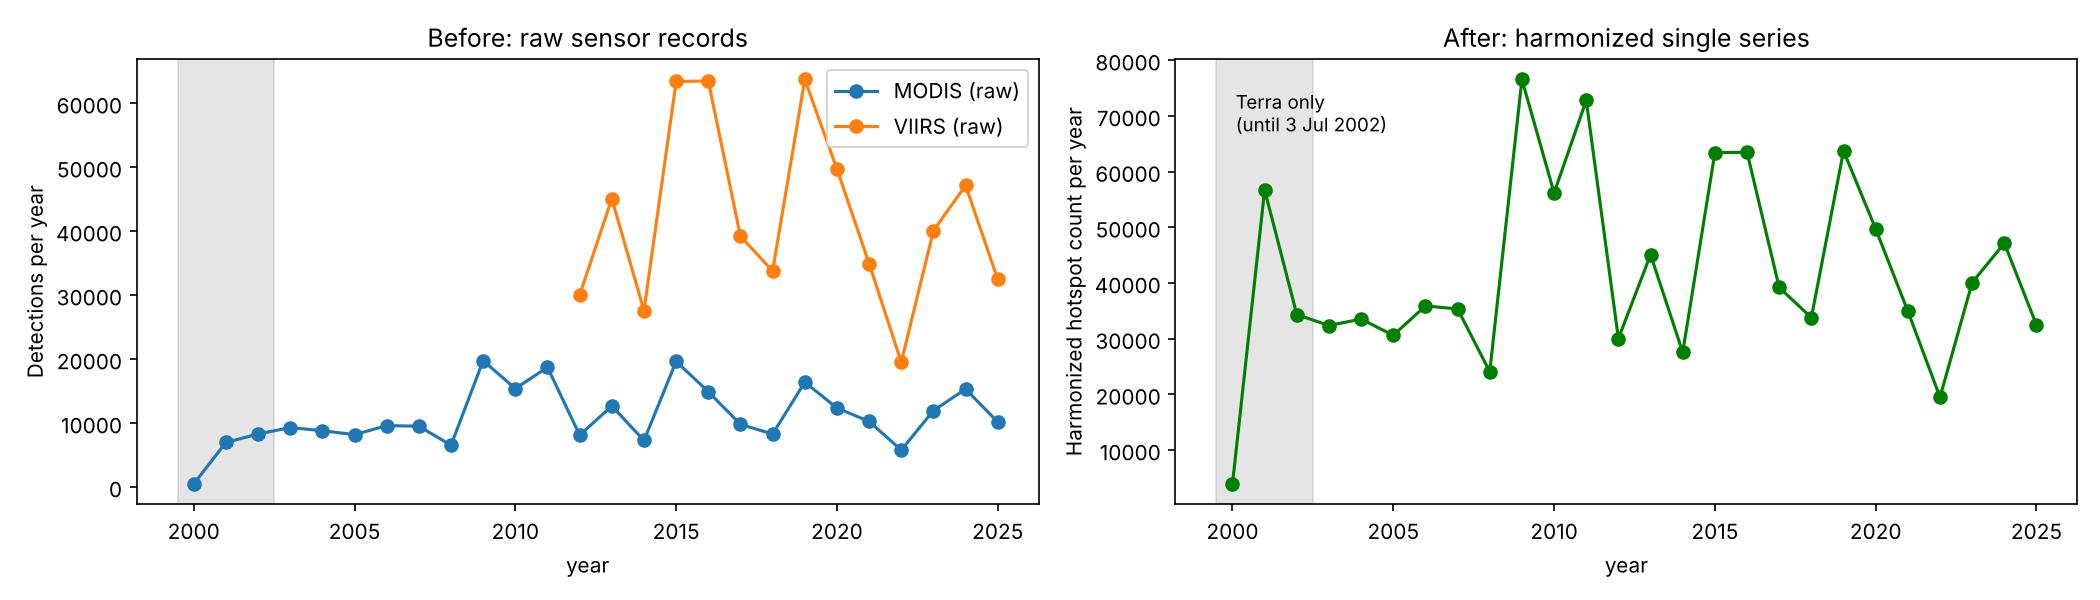
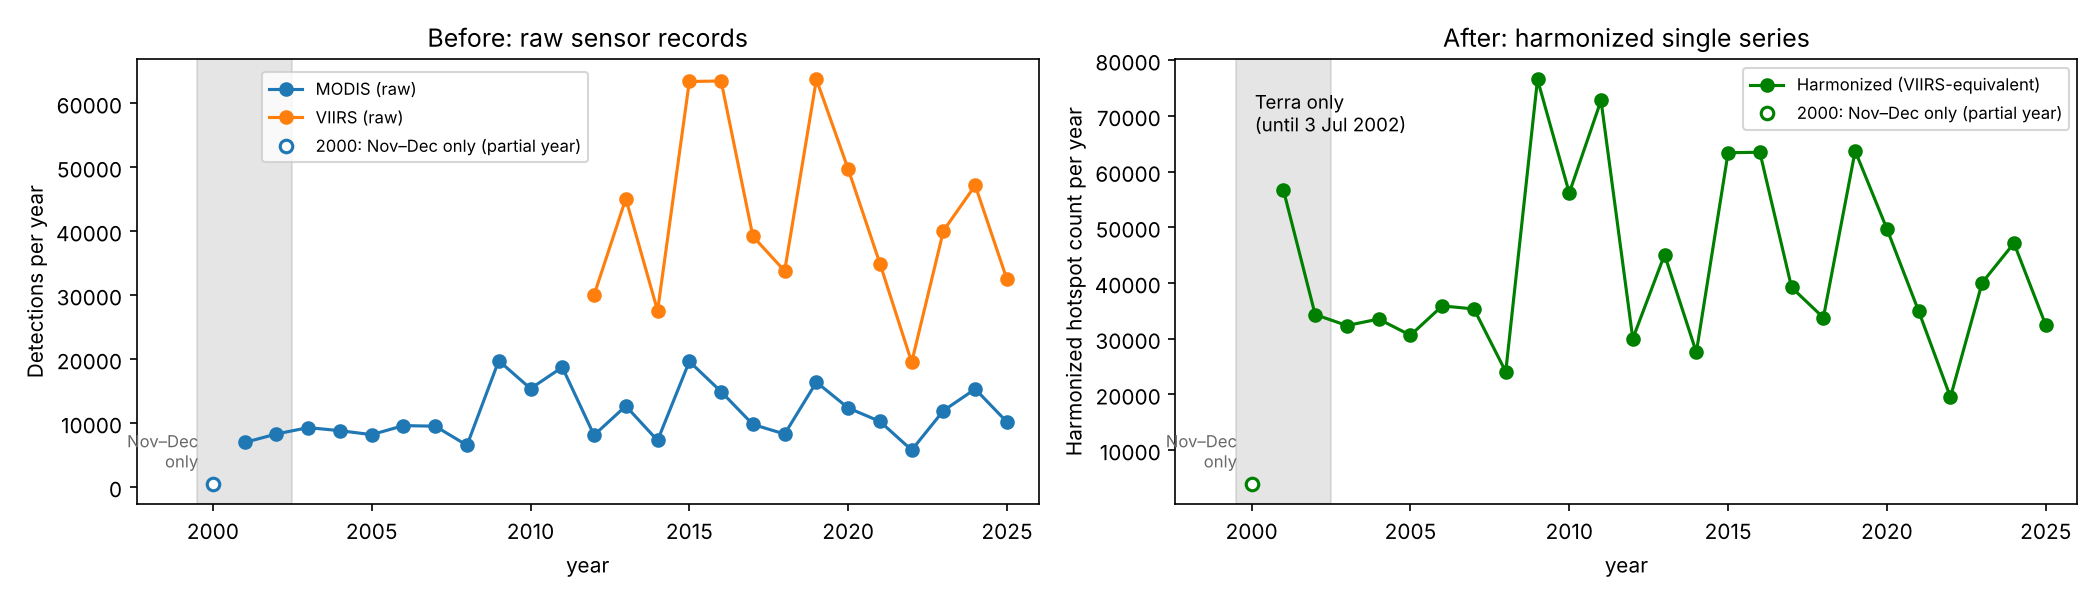
Mark 2000 as a partial year (Nov-Dec only) in the yearly charts
- fig1: 2000 drawn as a hollow marker labelled 'Nov-Dec only', not
  joined to 2001; legends moved off the data (re-drawn with
  tools/make_figures.py)
- app yearly chart: 2000 as an outlined bar with a 'Nov-Dec only'
  label and hover note; error bars only on MODIS-scaled years

diff --git a/index.html b/index.html
@@ -520,6 +520,7 @@ se_h:['How the error depends on area and time','Hatanın alana ve zamana bağlı
 se_c:['Forward test ① (factors learned on 2012–2018, scored on 2019–2025), WAPE of the scaled MODIS against real VIIRS for units of each size and each time window. The error falls steadily as the area or the window grows — the signature of random, not systematic, error: <b>{v0}</b> of all VIIRS detections fall in 0.25° cell-days in which MODIS detected nothing (small, short or cloud-hidden fires), so whether MODIS caught a fire is close to chance for one small area and averages out only over many fires. No scaling method can recover fires MODIS never saw; the calendar therefore shows this table\'s error for <i>your</i> area and view (hover a ◇ year), and the yearly chart draws it as error bars. Read from <code>data/scale_error_v2.csv</code> (<code>tools/scale_error_check.py</code>).','İleriye test ① (faktörler 2012–2018\'den öğrenildi, 2019–2025\'te puanlandı): her büyüklükteki birim ve her zaman penceresi için ölçeklenmiş MODIS\'in gerçek VIIRS\'e göre WAPE\'si. Alan veya pencere büyüdükçe hata düzenli olarak düşer — bu sistematik değil rastlantısal hatanın işaretidir: tüm VIIRS tespitlerinin <b>{v0}</b>\'i MODIS\'in hiçbir şey görmediği 0,25° hücre-günlerdedir (küçük, kısa süreli veya bulut altında kalan yangınlar). Bu yüzden MODIS\'in bir yangını yakalaması küçük bir alanda neredeyse tesadüftür ve ancak çok sayıda yangında dengelenir. Hiçbir ölçekleme yöntemi MODIS\'in hiç görmediği yangınları geri getiremez; bu nedenle takvim bu tablodaki hatayı <i>sizin</i> alanınız ve görünümünüz için gösterir (◇ yılın üzerine gelin), yıllık grafik de bunu hata çubuğu olarak çizer. <code>data/scale_error_v2.csv</code> dosyasından okunur (<code>tools/scale_error_check.py</code>).'],
 se_s:['Unit','Birim'],se_cell:['0.25° cell','0,25° hücre'],se_square_1:['1° square','1° kare'],se_square_2:['2° square','2° kare'],se_region:['Whole region','Tüm bölge'],
 yerr:['typical error','tipik hata'],
+p2000:['Nov–Dec only (the record starts on 1 Nov 2000)','yalnızca Kas–Ara (kayıt 1 Kasım 2000\'de başlar)'],p2000s:['Nov–Dec<br>only','yalnızca<br>Kas–Ara'],
 demo:['▶ Demo','▶ Demo'],t_close:['Close','Kapat'],t_back:['Back','Geri'],t_next:['Next','İleri'],t_done:['Finish','Bitir'],
 tour1:['1/4 · The problem','1/4 · Sorun','MODIS (1 km pixels, since 2000) sees about <b>3.6× fewer</b> fires than VIIRS (375 m, since 2012). MODIS is reaching the end of its mission; without a bridge, the 2000–2011 record cannot be compared with today. The table shows how well our MODIS→VIIRS scaling predicts VIIRS in years it never saw.','MODIS (1 km piksel, 2000\'den beri) VIIRS\'e (375 m, 2012\'den beri) göre yaklaşık <b>3,6 kat daha az</b> yangın görür. MODIS görev ömrünün sonuna geliyor; bir köprü olmazsa 2000–2011 kaydı bugünle karşılaştırılamaz. Tablo, MODIS→VIIRS ölçeklememizin hiç görmediği yıllarda VIIRS\'i ne kadar iyi tahmin ettiğini gösterir.'],
 tour2:['2/4 · Pick an area and a week','2/4 · Alan ve hafta seç','Case study: the <b>July–August 2021 megafires</b> (Manavgat, Marmaris, Milas). The calendar row 2021 lights up in weeks 30–31; the map shows only that week\'s hotspots over NASA\'s true-colour MODIS image of the same week.','Vaka analizi: <b>Temmuz–Ağustos 2021 megayangınları</b> (Manavgat, Marmaris, Milas). Takvimde 2021 satırı 30–31. haftalarda parlıyor; harita yalnızca o haftanın sıcak noktalarını aynı haftanın NASA gerçek renkli MODIS görüntüsü üzerinde gösterir.'],
@@ -880,10 +881,12 @@ function refresh(){
  const mt=med(yr.map((y,i)=>y>=2003?tot[i]:null).filter(x=>x!=null));
  // trend of yearly totals: Theil-Sen slope + Mann-Kendall test, two-satellite years only (2003+; 2012+ for raw VIIRS)
  const tY=[],tV=[];yr.forEach((y,i)=>{if(y>=(SENS=='raw_viirs'?2012:2003)){tY.push(y);tV.push(tot[i])}});const TR=trend(tY,tV);
- const eyr=SENS=='intensity'?expErr(curKm2(),'year'):null,ebar=yr.map((y,i)=>eyr!=null&&y<2012?tot[i]*eyr/100:0);
- const ch2d=[{x:yr,y:tot,type:'bar',name:l('Hotspots','Sıcak nokta'),marker:{color:yr.map(y=>y<2003?'#64748b':y<2012&&SENS=='intensity'?'#a78bfa':'#2dd4bf')},error_y:{type:'data',array:ebar,visible:eyr!=null,color:'#e6ddd3',thickness:1.2,width:3},customdata:ebar,hovertemplate:eyr!=null?`%{x}: %{y:,.0f}<br>± %{customdata:,.0f} (${t('yerr')} ~${Math.round(eyr)}% ◇)<extra></extra>`:'%{x}: %{y:,.0f}<extra></extra>'},{x:yr,y:yr.map(()=>mt),mode:'lines',name:l('median','medyan'),line:{color:'#fbbf24',dash:'dash'}}];
+ const eyr=SENS=='intensity'?expErr(curKm2(),'year'):null,ebar=yr.map((y,i)=>eyr!=null&&y<2012&&y>2000?tot[i]*eyr/100:null);
+ const ch2d=[{x:yr,y:tot,type:'bar',showlegend:false,name:l('Hotspots','Sıcak nokta'),marker:{color:yr.map(y=>y==2000?'rgba(0,0,0,0)':y<2003?'#64748b':y<2012&&SENS=='intensity'?'#a78bfa':'#2dd4bf'),line:{color:yr.map(y=>y==2000?'#9ca3af':'rgba(0,0,0,0)'),width:yr.map(y=>y==2000?1.5:0)}},customdata:ebar,hovertext:yr.map(y=>y==2000?' · '+t('p2000'):''),hovertemplate:yr.map((y,i)=>ebar[i]!=null?`%{x}: %{y:,.0f}<br>± %{customdata:,.0f} (${t('yerr')} ~${Math.round(eyr)}% ◇)<extra></extra>`:'%{x}: %{y:,.0f}%{hovertext}<extra></extra>')},{x:yr,y:yr.map(()=>mt),mode:'lines',name:l('median','medyan'),line:{color:'#fbbf24',dash:'dash'}}];
+ {const ex=[],ey=[],ee=[];yr.forEach((y,i)=>{if(ebar[i]!=null){ex.push(y);ey.push(tot[i]);ee.push(ebar[i])}});if(ex.length)ch2d.push({x:ex,y:ey,type:'scatter',mode:'markers',marker:{opacity:0,size:1},error_y:{type:'data',array:ee,color:'#e6ddd3',thickness:1.2,width:3},showlegend:false,hoverinfo:'skip'})}
  if(TR)ch2d.push({x:[tY[0],tY[tY.length-1]],y:[TR.b+TR.s*tY[0],TR.b+TR.s*tY[tY.length-1]],mode:'lines',name:'Theil–Sen',line:{color:'#f3ece4',width:2,dash:'dot'}});
- Plotly.react('ch2',ch2d,{...lay,title:{text:l('Yearly totals (purple = MODIS-scaled)','Yıllık toplam (mor = MODIS\'ten ölçekli)'),font:{size:12}}},cf);
+ const ann2=yr[0]==2000?[{x:2000,y:tot[0],yref:'y',text:t('p2000s'),showarrow:false,yanchor:'bottom',yshift:3,font:{size:9,color:'#b3a99e'}}]:[];
+ Plotly.react('ch2',ch2d,{...lay,annotations:ann2,title:{text:l('Yearly totals (purple = MODIS-scaled)','Yıllık toplam (mor = MODIS\'ten ölçekli)'),font:{size:12}}},cf);
  if(TR){const pc=mt>0?100*TR.s/mt:0,sig=TR.p<.05;
   $('k6').textContent=`${TR.s>=0?'+':'−'}${fmt(Math.abs(TR.s))} ${l('hotspots / year','sıcak nokta / yıl')} (${pf(pc,1)} ${l('of the median per year','/ yıl, medyana göre')})`;
   $('k6s').textContent=`${tY[0]}–${tY[tY.length-1]}, n=${TR.n} · Mann–Kendall p = ${TR.p<.001?'<0.001':TR.p.toFixed(3)} → ${sig?(TR.s>0?l('significant increase','anlamlı artış'):l('significant decrease','anlamlı azalış')):l('no significant trend','anlamlı trend yok')} (α = 0.05). ${l('Year-to-year variability is large; the trend is a summary, not a forecast.','Yıldan yıla değişkenlik büyüktür; trend bir özettir, tahmin değildir.')}`}

diff --git a/tools/make_figures.py b/tools/make_figures.py
@@ -40,16 +40,28 @@ def load(path):
 def fig1(g, out):
     y = g.groupby("year")[["raw_modis", "raw_viirs", "intensity"]].sum()
     v = y["raw_viirs"][y["raw_viirs"] > 0]
+    # 2000 holds only November and December (the MODIS record starts on 1 Nov 2000), so it is drawn as a
+    # hollow marker, labelled, and not joined to 2001: a line would suggest a collapse in fire activity.
+    full = y.index >= 2001
     fig, ax = plt.subplots(1, 2, figsize=(14, 4), dpi=150)
-    ax[0].plot(y.index, y["raw_modis"], "o-", color=BLUE, label="MODIS (raw)")
+    ax[0].plot(y.index[full], y["raw_modis"][full], "o-", color=BLUE, label="MODIS (raw)")
     ax[0].plot(v.index, v, "o-", color=ORANGE, label="VIIRS (raw)")
     ax[0].set(title="Before: raw sensor records", xlabel="year", ylabel="Detections per year")
-    ax[0].legend()
-    ax[1].plot(y.index, y["intensity"], "o-", color=GREEN)
+    ax[1].plot(y.index[full], y["intensity"][full], "o-", color=GREEN, label="Harmonized (VIIRS-equivalent)")
     ax[1].set(title="After: harmonized single series", xlabel="year",
               ylabel="Harmonized hotspot count per year")
-    for a in ax:
+    for a, col, colour in ((ax[0], "raw_modis", BLUE), (ax[1], "intensity", GREEN)):
+        if 2000 in y.index:
+            a.plot([2000], [y.loc[2000, col]], "o", mfc="white", mec=colour, mew=1.5,
+                   label="2000: Nov–Dec only (partial year)")
+            a.annotate("Nov–Dec\nonly", (2000, y.loc[2000, col]), textcoords="offset points",
+                       xytext=(-7, 6), ha="right", va="bottom", fontsize=8, color="dimgrey")
         a.axvspan(1999.5, 2002.5, color="grey", alpha=0.2)
+    # left panel: VIIRS fills the upper right, so the legend goes to the empty space above 2003-2011
+    ax[0].legend(loc="upper left", bbox_to_anchor=(0.13, 0.99), fontsize=8)
+    ax[1].legend(loc="upper right", fontsize=8)
+    for a in ax:
+        a.set_xlim(1997.6, 2026)
     ax[1].text(2000.1, ax[1].get_ylim()[1] * 0.93, "Terra only\n(until 3 Jul 2002)",
                va="top", fontsize=9)
     fig.tight_layout()
